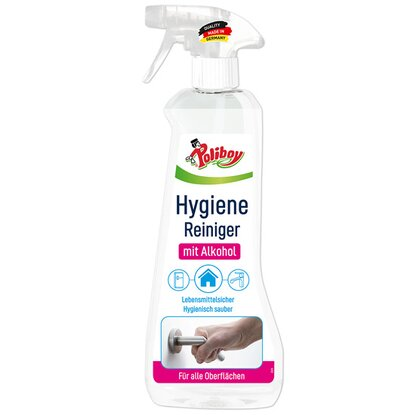
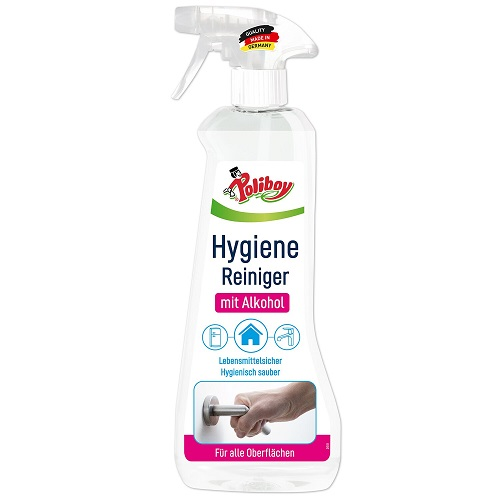
Bildgrößen angepasst, Quellen in Information.php eingefügt

diff --git a/views/pages/information.php b/views/pages/information.php
@@ -67,9 +67,15 @@
                 <p>
                     Das Virus verbreitet sich insbesondere durch Tröpfcheninfektion, aber auch durch Aerosolinfektion von Mensch zu Mensch. Die direkte Übertragung durch diese beiden Hauptübertragungswege
                     von Tieren zum Menschen ist bisher nicht belegt.<br>
-                    Die Verbreitung ist laut den <a href="https://www.rki.de/SharedDocs/FAQ/NCOV2019/gesamt.html">Informationen des Robert Koch Instituts</a> schlechter im Sommer. Durch höhere Temperaturen und die stärke UV-Strahlung ist das Virus in seiner Verbreitung gehemmt.
+                    Die Verbreitung ist laut den <a href="https://www.rki.de/SharedDocs/FAQ/NCOV2019/gesamt.html">Informationen des Robert Koch Instituts</a> schlechter im Sommer. Durch höhere Temperaturen und 
+                    die stärke UV-Strahlung ist das Virus in seiner Verbreitung gehemmt.
                     Diese Saisonalität wurde bereits bei anderen humanen Coronaviren beobachtet.
                 </p>
+                
+                <p style="font-size:10pt">
+                    Quelle: <a href="https://www.zusammengegencorona.de/">www.zusammengegencorona.de</a>
+                </p>
+
         </div>
 
     </body>
